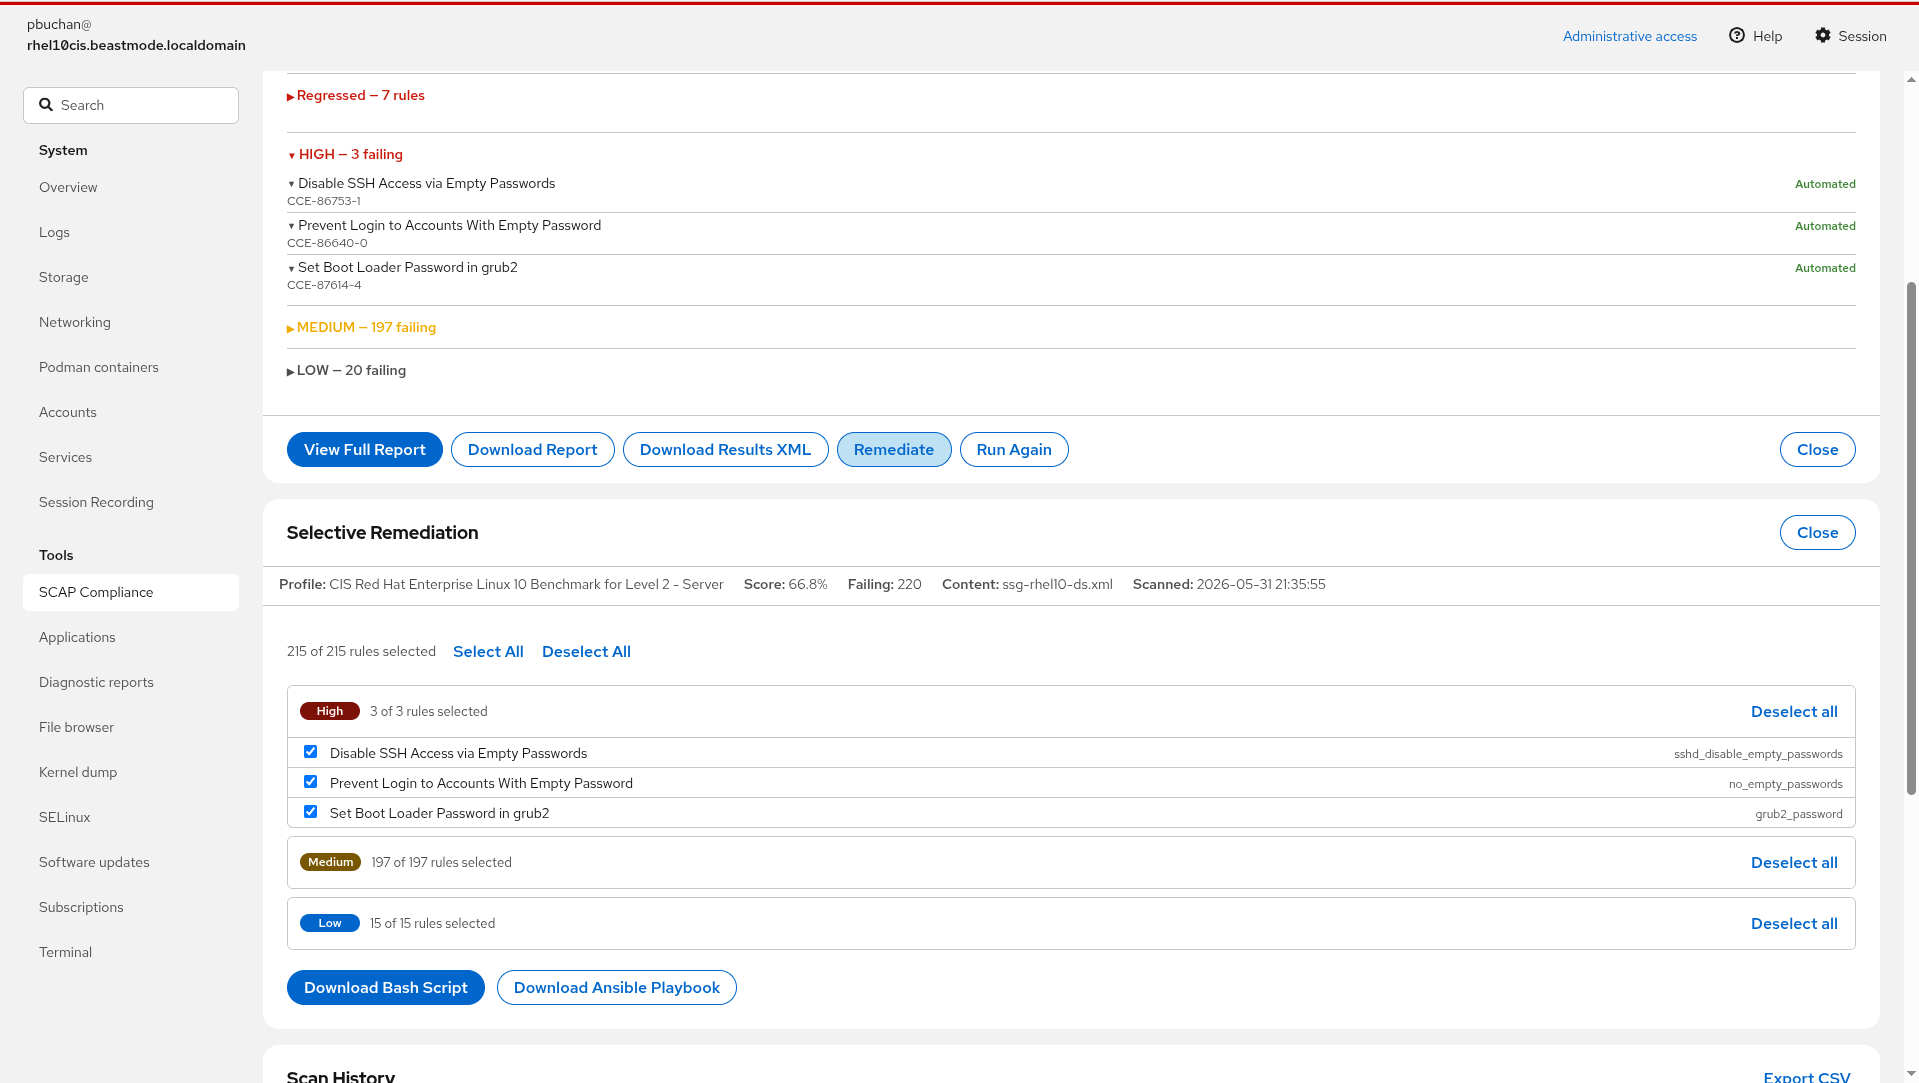
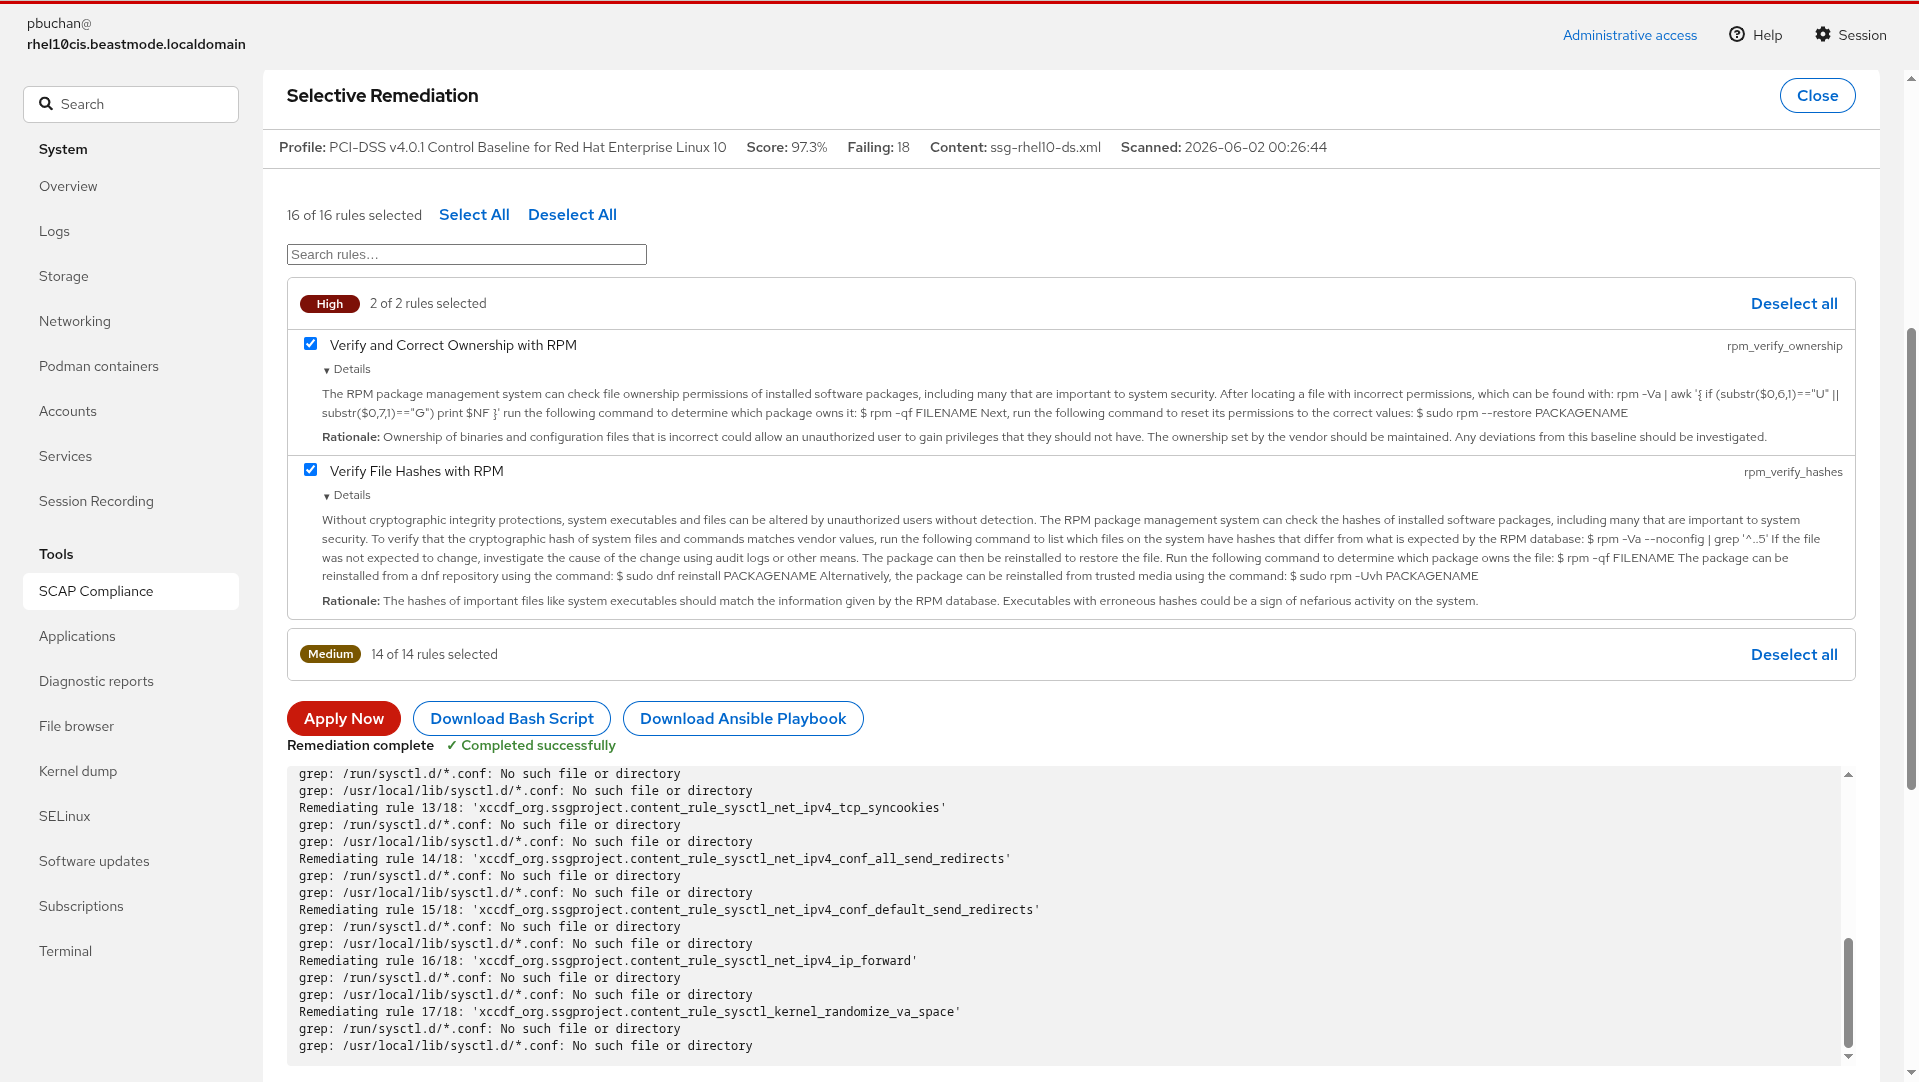
docs: update screenshots and README for v3.5
- Replace selective remediation screenshot with Apply Now live output
- Add activity-log and activity-log-remediations screenshots to repo
- Update screenshot caption to reflect Apply Now feature

diff --git a/README.md b/README.md
@@ -38,8 +38,8 @@ in Cockpit.
 **Scan Results — compliance score, regression detection, failing rules with CCE identifiers and inline description**
 ![Scan Results](docs/screenshots/scan-results.png)
 
-**Selective Remediation Builder — cherry-pick failing rules before downloading targeted bash or Ansible scripts**
-![Selective Remediation](docs/screenshots/selective-remediations.png)
+**Apply Now — select failing rules, review the script, apply directly on the host with live streaming output**
+![Apply Now](docs/screenshots/selective-remediations.png)
 
 **Host Scan — unified configuration card with profile description and scan history**
 ![Host Scan](docs/screenshots/host-scan.png)